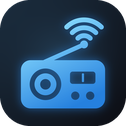
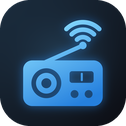
feat: menus in the order all Kai apps share, a color for every source
Settings: Library, each source with its colored dot and state, Playback or
Reading, Display (the app's own row last), About with the version, and the
project's line. A source's page: address, sign-in, options with its Color,
test, forget; it wears its color along the top, as KaiVideo's. The icon's
symbol sized by its area and centered.

diff --git a/source/ui_settings.c b/source/ui_settings.c
@@ -15,7 +15,8 @@
 #define SETTINGS_W 760  // Settings, as KaiVideo's.
 #define ROW_H 48
 #define HEAD_H 76
-#define FOOT_H 76  // The row's help, on up to two lines.
+#define FOOT_H 76  // The row's help, on up to two lines,
+#define PROJECT_H 30  // and on the main page the project's line under it.
 #define HELP_PX 16
 #define HELP_LINE_H 24
 #define VALUE_MAX_W 300
@@ -154,7 +155,7 @@ static void drawSettings(const App *app, uint64_t now_ns)
     SettingsPage page = (SettingsPage)app->settings_page;
     SettingRow rows[SETTINGS_PAGE_MAX_ROWS];
     int count = settingsPageRows(page, rows);
-    int h = HEAD_H + count * ROW_H + FOOT_H;
+    int h = HEAD_H + count * ROW_H + FOOT_H + (page == SETTINGS_PAGE_MAIN ? PROJECT_H : 0);
     int x = (GFX_WIDTH - SETTINGS_W) / 2, y = (GFX_HEIGHT - h) / 2;
     backdrop(x, y, SETTINGS_W, h);
     int title_x = x + PAD;
@@ -163,7 +164,11 @@ static void drawSettings(const App *app, uint64_t now_ns)
     fontDraw(FONT_BOLD, 24, title_x, y + 22, settingsPageTitle(page), COLOR_TEXT);
     for (int n = 0; n < count; n++)
         drawSettingRow(app, rows[n], x, y + HEAD_H + n * ROW_H, now_ns);
-    drawHelp(settingsRowHelp(app->settings_cursor), x + PAD, y + h - FOOT_H + 10, SETTINGS_W - 2 * PAD);
+    int foot_y = y + HEAD_H + count * ROW_H;
+    drawHelp(settingsRowHelp(app->settings_cursor), x + PAD, foot_y + 10, SETTINGS_W - 2 * PAD);
+    if (page == SETTINGS_PAGE_MAIN)  // As KaiVideo's and KaiPlayer's.
+        fontDrawClipped(FONT_REGULAR, 16, x + PAD, foot_y + FOOT_H, SETTINGS_W - 2 * PAD,
+                        T("Open source (MIT)  \xC2\xB7  github.com/mizuiroame/kairadio"), COLOR_FAINT);
 }
 
 static void drawAbout(void)
